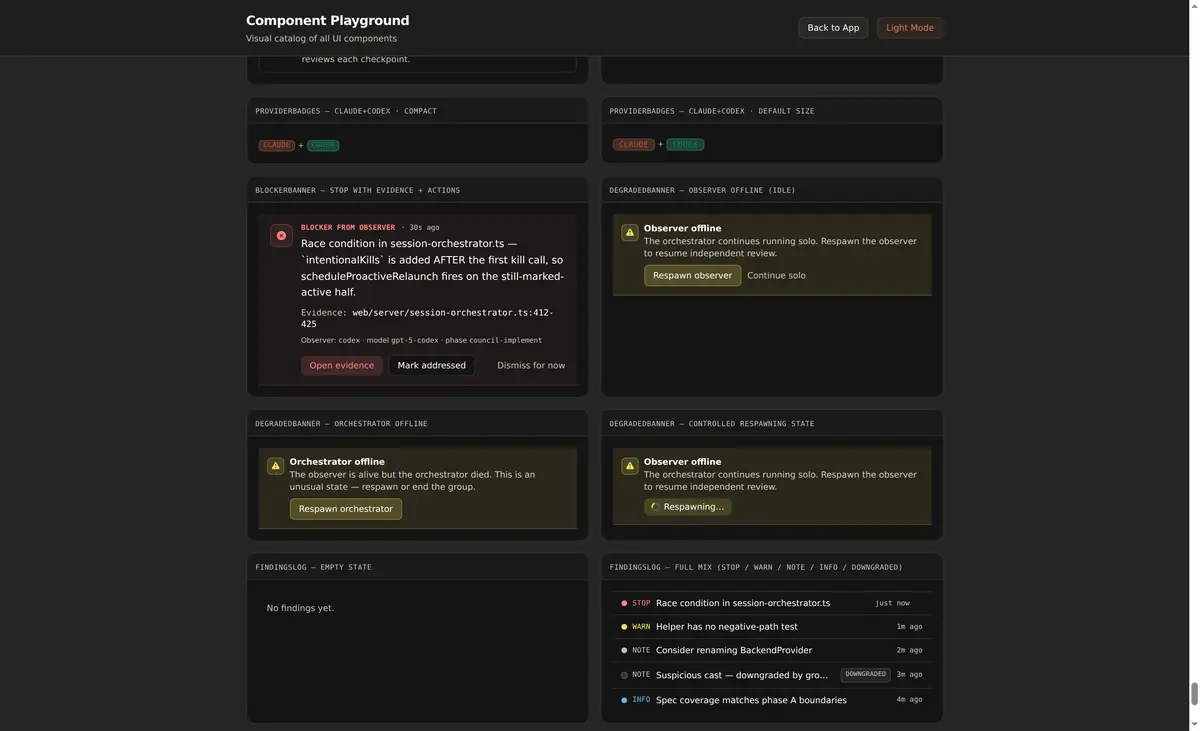
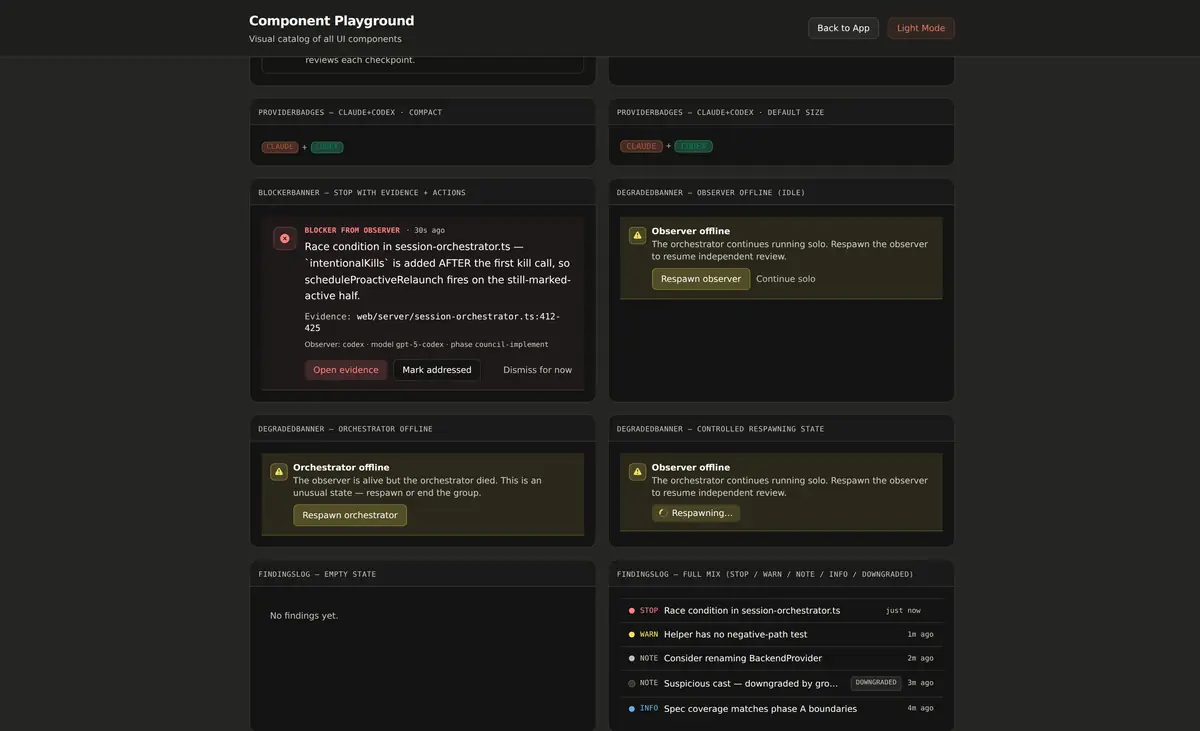
feat(landing): replace phone mockup with a real-screenshot carousel
- Hero: the fake-chat phone mockup and the single hero screenshot are
  replaced by a 6-slide carousel of real product screenshots (vanilla
  JS, no deps): 5 s autoplay, pause on hover/focus/hidden tab, play/
  pause button, prev/next + dots, swipe, arrow keys, no autoplay under
  prefers-reduced-motion, ARIA carousel pattern ("N из M" / "N of M",
  aria-live polite only once autoplay stops), slides after the first
  load lazily, fixed aspect-ratio so nothing shifts.
- New captures from the built-in Playground (mock data) and an
  isolated crop of the New Session model menu: models marked
  "Untested", usage-limit auto-resume banner, collapsed
  "Interrupted xN" markers, observer findings cards.
- All images WebP, 18-45 KB each; scrollbars cropped off Playground
  shots.
- Mobile: the header CTA no longer wraps/overflows at <=520px.

diff --git a/landing-legacy/site/index.html b/landing-legacy/site/index.html
@@ -155,6 +155,8 @@
     .nav-links { display: none; }
     .gh-badge span { display: none; }
   }
+  .nav-cta { white-space: nowrap; }
+  @media (max-width: 520px) { .nav-cta { display: none; } }
 
   /* Hero */
   .hero { padding: 80px 0 60px; position: relative; }
@@ -488,6 +490,26 @@
     .shot-frame { border-radius: 10px; }
   }
 
+  /* Screenshot carousel */
+  .carousel { position: relative; z-index: 1; max-width: 1100px; margin: 0 0 48px; }
+  .carousel:focus-visible { outline: 2px solid var(--amber); outline-offset: 6px; border-radius: 14px; }
+  .carousel-viewport { overflow: hidden; border: 1px solid var(--border-hi); border-radius: 14px; background: #060403; box-shadow: 0 0 0 1px rgba(0, 255, 110, 0.06) inset, 0 0 28px rgba(0, 255, 110, 0.14), 0 20px 60px -20px rgba(0, 0, 0, 0.9); touch-action: pan-y; }
+  .carousel-track { display: flex; transition: transform 0.5s ease; will-change: transform; }
+  .carousel-slide { flex: 0 0 100%; min-width: 0; margin: 0; }
+  .carousel-slide .carousel-img { aspect-ratio: 1400 / 853; background: #1e1e1e; }
+  .carousel-slide img { display: block; width: 100%; height: 100%; object-fit: contain; }
+  .carousel-caption { margin: 0; padding: 12px 16px; min-height: 4.4em; font-size: 13px; color: var(--text-dim); text-align: center; line-height: 1.6; }
+  .carousel-controls { display: flex; align-items: center; justify-content: center; gap: 12px; margin-top: 8px; flex-wrap: wrap; }
+  .carousel-btn { background: var(--surface); border: 1px solid var(--border-hi); color: var(--amber); width: 36px; height: 36px; border-radius: 999px; cursor: pointer; font-family: inherit; font-size: 16px; line-height: 1; display: inline-flex; align-items: center; justify-content: center; transition: background 0.2s, border-color 0.2s; }
+  .carousel-btn:hover, .carousel-btn:focus-visible { background: var(--surface-hi); border-color: var(--amber); outline: none; }
+  .carousel-dots { display: flex; gap: 6px; }
+  .carousel-dot { width: 24px; height: 24px; padding: 0; border: none; background: none; cursor: pointer; display: inline-flex; align-items: center; justify-content: center; }
+  .carousel-dot::before { content: ''; width: 8px; height: 8px; border-radius: 50%; background: var(--text-dim); transition: background 0.2s, box-shadow 0.2s; }
+  .carousel-dot[aria-current="true"]::before { background: var(--amber); box-shadow: 0 0 8px var(--amber); }
+  .carousel-dot:focus-visible { outline: 2px solid var(--amber); border-radius: 50%; }
+  @media (max-width: 880px) { .carousel { margin-bottom: 36px; } .carousel-viewport { border-radius: 10px; } }
+  @media (prefers-reduced-motion: reduce) { .carousel-track { transition: none; } }
+
   /* FAQ */
   .faq-list { max-width: 800px; }
   .faq-item { border-bottom: 1px solid var(--border); padding: 24px 0; }
@@ -623,7 +645,24 @@
       <h1>Сложные ИИ-системы.<br><span class="accent">С телефона.</span> Без VPN.</h1>
       <p class="hero-sub">Веб-интерфейс для официальных Claude Code и Codex: ваши агенты продолжают работу после лимита, проверяют друг друга и не теряют ответы при рестарте. Программируйте, советуйтесь, создавайте — по-русски, прямо из браузера телефона. Полностью бесплатный благотворительный проект с открытым кодом под MIT. <a href="#why" style="color:var(--amber);text-decoration:none;white-space:nowrap;">Зачем, если есть Claude Code? →</a></p>
 
-      <figure class="shot hero-shot"><div class="shot-frame"><img src="/img/aura-hero.webp" width="1400" height="853" alt="Экран новой сессии Aura Companion: слева список сессий проекта, в центре поле задачи, переключатель Claude Code / Codex и тумблер Council Mode" fetchpriority="high" decoding="async"></div><figcaption>Так выглядит Aura: сессии слева, выбор Claude Code или Codex и включение Council Mode — в браузере, в том числе с телефона</figcaption></figure>
+      <div class="carousel" id="shots" role="region" aria-roledescription="carousel" aria-label="Скриншоты Aura Companion" tabindex="0" data-pause="Остановить автопрокрутку" data-play="Включить автопрокрутку">
+        <div class="carousel-viewport">
+          <div class="carousel-track" aria-live="off">
+            <figure class="carousel-slide" role="group" aria-roledescription="slide" aria-label="1 из 6"><div class="carousel-img"><img src="/img/aura-hero.webp" width="1400" height="853" alt="Экран новой сессии Aura Companion: список сессий, поле задачи, переключатель Claude Code / Codex и тумблер Council Mode" fetchpriority="high" decoding="async"></div><figcaption class="carousel-caption">Новая сессия: выбор Claude Code или Codex и включение Council Mode — в браузере, в том числе с телефона</figcaption></figure>
+            <figure class="carousel-slide" role="group" aria-roledescription="slide" aria-label="2 из 6" aria-hidden="true"><div class="carousel-img"><img data-src="/img/shot-fresh.webp" width="1400" height="853" alt="Слева список моделей, где непроверенные модели (Opus 5.5, Fable 5.1 и другие) помечены Untested; справа баннер «Лимит до 08:02 — автопродолжение в 08:04», сообщение «Лимит сброшен — продолжай с того места, где остановился» и свёрнутая строка «Interrupted ×4»" decoding="async"></div><figcaption class="carousel-caption">Свежее: непроверенные модели помечены «Untested»; лимит → автопродолжение по таймеру; серия перезапусков свёрнута в одну строку (демо-данные)</figcaption></figure>
+            <figure class="carousel-slide" role="group" aria-roledescription="slide" aria-label="3 из 6" aria-hidden="true"><div class="carousel-img"><img data-src="/img/shot-findings.webp" width="1400" height="853" alt="Лента наблюдателя: проба связи на русском, затем находки карточками — STOP, WARN и INFO с уверенностью и ссылкой на файл и строки" decoding="async"></div><figcaption class="carousel-caption">Находки наблюдателя приходят карточками: уровень, уверенность, файл и строки (демо-данные)</figcaption></figure>
+            <figure class="carousel-slide" role="group" aria-roledescription="slide" aria-label="4 из 6" aria-hidden="true"><div class="carousel-img"><img data-src="/img/council-overview.webp" width="1400" height="853" alt="Council Mode: слева чат основного агента, справа панель наблюдателя с находками NOTE и INFO от второй модели" decoding="async"></div><figcaption class="carousel-caption">Council Mode: справа — вторая модель, которая проверяет каждый шаг</figcaption></figure>
+            <figure class="carousel-slide" role="group" aria-roledescription="slide" aria-label="5 из 6" aria-hidden="true"><div class="carousel-img"><img data-src="/img/shot-permissions.webp" width="1400" height="853" alt="Запросы разрешений: команда Bash и правки файлов показаны диффом, с кнопками «разрешить», «на сессию», «всегда» и «запретить»" decoding="async"></div><figcaption class="carousel-caption">Каждое действие агента под контролем: разрешить один раз, на сессию или всегда; правки видны диффом до применения (демо-данные)</figcaption></figure>
+            <figure class="carousel-slide" role="group" aria-roledescription="slide" aria-label="6 из 6" aria-hidden="true"><div class="carousel-img"><img data-src="/img/council-anatomy.webp" width="1400" height="853" alt="Компоненты Council Mode: STOP-баннер наблюдателя с доказательством, баннеры «наблюдатель офлайн» и журнал находок STOP / WARN / NOTE / INFO" decoding="async"></div><figcaption class="carousel-caption">STOP-баннер с доказательством, состояния наблюдателя и журнал находок (демо-данные)</figcaption></figure>
+          </div>
+        </div>
+        <div class="carousel-controls">
+          <button type="button" class="carousel-btn" data-dir="-1" aria-label="Предыдущий слайд">&#8592;</button>
+          <div class="carousel-dots" role="group" aria-label="Выбор слайда"><button type="button" class="carousel-dot" data-i="0" aria-label="Слайд 1 из 6" aria-current="true"></button><button type="button" class="carousel-dot" data-i="1" aria-label="Слайд 2 из 6"></button><button type="button" class="carousel-dot" data-i="2" aria-label="Слайд 3 из 6"></button><button type="button" class="carousel-dot" data-i="3" aria-label="Слайд 4 из 6"></button><button type="button" class="carousel-dot" data-i="4" aria-label="Слайд 5 из 6"></button><button type="button" class="carousel-dot" data-i="5" aria-label="Слайд 6 из 6"></button></div>
+          <button type="button" class="carousel-btn" data-dir="1" aria-label="Следующий слайд">&#8594;</button>
+          <button type="button" class="carousel-btn carousel-toggle" aria-label="Остановить автопрокрутку">&#10074;&#10074;</button>
+        </div>
+      </div>
 
       <div class="paths" id="paths">
         <a href="#cases" class="path">
@@ -644,26 +683,6 @@
           <p>Код по MIT-лицензии — забирайте и ставьте сами. Или дайте ссылку Claude — он развернёт всё за вас.</p>
           <div class="path-cta">Открыть на GitHub</div>
         </a>
-      </div>
-
-      <div class="hero-visual">
-        <div class="phone">
-          <div class="phone-notch"></div>
-          <div class="phone-screen">
-            <div class="chat-msg user">
-              <div class="label">Вы</div>
-              Сделай мне систему учёта расходов, чтобы я могла фотографировать чеки и она сама всё считала
-            </div>
-            <div class="chat-msg ai">
-              <div class="label">Aura</div>
-              Поняла. Создаю мини-приложение «Семейный бюджет». Готовлю распознавание чеков, категории и месячный отчёт. 2 минуты.
-            </div>
-            <div class="chat-msg user">
-              <div class="label">Вы</div>
-              Ещё чтобы напоминал мужу про продукты по средам
-            </div>
-          </div>
-        </div>
       </div>
     </div>
   </section>
@@ -1317,6 +1336,58 @@
         if (b) b.textContent = v;
       }).catch(function(){});
   } catch (e) {}
+})();
+</script>
+<script>
+(function(){
+  var root = document.getElementById('shots'); if (!root) return;
+  var track = root.querySelector('.carousel-track');
+  var slides = root.querySelectorAll('.carousel-slide');
+  var dots = root.querySelectorAll('.carousel-dot');
+  var toggle = root.querySelector('.carousel-toggle');
+  var n = slides.length, cur = 0, timer = null, DELAY = 5000;
+  var reduced = window.matchMedia && window.matchMedia('(prefers-reduced-motion: reduce)').matches;
+  var stopped = reduced, hovered = false, focused = false;
+  function load(i){ var img = slides[(i + n) % n].querySelector('img[data-src]'); if (img) { img.src = img.getAttribute('data-src'); img.removeAttribute('data-src'); } }
+  function show(i){
+    cur = (i + n) % n;
+    track.style.transform = 'translateX(' + (-100 * cur) + '%)';
+    for (var k = 0; k < n; k++) {
+      if (k === cur) { slides[k].removeAttribute('aria-hidden'); dots[k].setAttribute('aria-current', 'true'); }
+      else { slides[k].setAttribute('aria-hidden', 'true'); dots[k].removeAttribute('aria-current'); }
+    }
+    load(cur); load(cur + 1);
+  }
+  function running(){ return !stopped && !hovered && !focused && !document.hidden; }
+  function sync(){
+    clearInterval(timer); timer = null;
+    if (running()) timer = setInterval(function(){ show(cur + 1); }, DELAY);
+    track.setAttribute('aria-live', stopped ? 'polite' : 'off');
+    toggle.setAttribute('aria-label', root.getAttribute(stopped ? 'data-play' : 'data-pause'));
+    toggle.innerHTML = stopped ? '&#9654;' : '&#10074;&#10074;';
+  }
+  function user(i){ stopped = true; show(i); sync(); }
+  root.querySelectorAll('[data-dir]').forEach(function(b){ b.addEventListener('click', function(){ user(cur + Number(b.getAttribute('data-dir'))); }); });
+  dots.forEach(function(d){ d.addEventListener('click', function(){ user(Number(d.getAttribute('data-i'))); }); });
+  toggle.addEventListener('click', function(){ stopped = !stopped; sync(); });
+  root.addEventListener('keydown', function(e){
+    if (e.key === 'ArrowLeft') { e.preventDefault(); user(cur - 1); }
+    else if (e.key === 'ArrowRight') { e.preventDefault(); user(cur + 1); }
+  });
+  root.addEventListener('mouseenter', function(){ hovered = true; sync(); });
+  root.addEventListener('mouseleave', function(){ hovered = false; sync(); });
+  root.addEventListener('focusin', function(){ focused = true; sync(); });
+  root.addEventListener('focusout', function(e){ if (!root.contains(e.relatedTarget)) { focused = false; sync(); } });
+  document.addEventListener('visibilitychange', sync);
+  var x0 = null, y0 = null;
+  root.addEventListener('touchstart', function(e){ x0 = e.touches[0].clientX; y0 = e.touches[0].clientY; }, {passive: true});
+  root.addEventListener('touchend', function(e){
+    if (x0 === null) return;
+    var dx = e.changedTouches[0].clientX - x0, dy = e.changedTouches[0].clientY - y0; x0 = null;
+    if (Math.abs(dx) > 40 && Math.abs(dx) > Math.abs(dy)) user(cur + (dx < 0 ? 1 : -1));
+  }, {passive: true});
+  window.addEventListener('load', function(){ load(1); });
+  show(0); sync();
 })();
 </script>
 </body>

diff --git a/landing-legacy/site/en/index.html b/landing-legacy/site/en/index.html
@@ -155,6 +155,8 @@
     .nav-links { display: none; }
     .gh-badge span { display: none; }
   }
+  .nav-cta { white-space: nowrap; }
+  @media (max-width: 520px) { .nav-cta { display: none; } }
 
   /* Hero */
   .hero { padding: 80px 0 60px; position: relative; }
@@ -488,6 +490,26 @@
     .shot-frame { border-radius: 10px; }
   }
 
+  /* Screenshot carousel */
+  .carousel { position: relative; z-index: 1; max-width: 1100px; margin: 0 0 48px; }
+  .carousel:focus-visible { outline: 2px solid var(--amber); outline-offset: 6px; border-radius: 14px; }
+  .carousel-viewport { overflow: hidden; border: 1px solid var(--border-hi); border-radius: 14px; background: #060403; box-shadow: 0 0 0 1px rgba(0, 255, 110, 0.06) inset, 0 0 28px rgba(0, 255, 110, 0.14), 0 20px 60px -20px rgba(0, 0, 0, 0.9); touch-action: pan-y; }
+  .carousel-track { display: flex; transition: transform 0.5s ease; will-change: transform; }
+  .carousel-slide { flex: 0 0 100%; min-width: 0; margin: 0; }
+  .carousel-slide .carousel-img { aspect-ratio: 1400 / 853; background: #1e1e1e; }
+  .carousel-slide img { display: block; width: 100%; height: 100%; object-fit: contain; }
+  .carousel-caption { margin: 0; padding: 12px 16px; min-height: 4.4em; font-size: 13px; color: var(--text-dim); text-align: center; line-height: 1.6; }
+  .carousel-controls { display: flex; align-items: center; justify-content: center; gap: 12px; margin-top: 8px; flex-wrap: wrap; }
+  .carousel-btn { background: var(--surface); border: 1px solid var(--border-hi); color: var(--amber); width: 36px; height: 36px; border-radius: 999px; cursor: pointer; font-family: inherit; font-size: 16px; line-height: 1; display: inline-flex; align-items: center; justify-content: center; transition: background 0.2s, border-color 0.2s; }
+  .carousel-btn:hover, .carousel-btn:focus-visible { background: var(--surface-hi); border-color: var(--amber); outline: none; }
+  .carousel-dots { display: flex; gap: 6px; }
+  .carousel-dot { width: 24px; height: 24px; padding: 0; border: none; background: none; cursor: pointer; display: inline-flex; align-items: center; justify-content: center; }
+  .carousel-dot::before { content: ''; width: 8px; height: 8px; border-radius: 50%; background: var(--text-dim); transition: background 0.2s, box-shadow 0.2s; }
+  .carousel-dot[aria-current="true"]::before { background: var(--amber); box-shadow: 0 0 8px var(--amber); }
+  .carousel-dot:focus-visible { outline: 2px solid var(--amber); border-radius: 50%; }
+  @media (max-width: 880px) { .carousel { margin-bottom: 36px; } .carousel-viewport { border-radius: 10px; } }
+  @media (prefers-reduced-motion: reduce) { .carousel-track { transition: none; } }
+
   /* FAQ */
   .faq-list { max-width: 800px; }
   .faq-item { border-bottom: 1px solid var(--border); padding: 24px 0; }
@@ -623,7 +645,24 @@
       <h1>Claude Code &amp; Codex.<br><span class="accent">From your phone.</span> No babysitting.</h1>
       <p class="hero-sub">A web UI for the official Claude Code and Codex CLIs: your agents keep working after a usage limit, review each other, and don't lose replies when the server restarts. Run several projects in one window, from any browser — including your phone. Free, open source under MIT. Also works from Russia, Belarus, Kazakhstan and the rest of the CIS without a VPN. <a href="#why" style="color:var(--amber);text-decoration:none;white-space:nowrap;">Why not just use Claude Code? →</a></p>
 
-      <figure class="shot hero-shot"><div class="shot-frame"><img src="/img/aura-hero.webp" width="1400" height="853" alt="Aura Companion new-session screen: project sessions in the sidebar, a task box, a Claude Code / Codex switch and the Council Mode toggle" fetchpriority="high" decoding="async"></div><figcaption>This is Aura: sessions on the left, Claude Code or Codex, and a Council Mode switch — in the browser, phone included</figcaption></figure>
+      <div class="carousel" id="shots" role="region" aria-roledescription="carousel" aria-label="Aura Companion screenshots" tabindex="0" data-pause="Pause auto-rotation" data-play="Start auto-rotation">
+        <div class="carousel-viewport">
+          <div class="carousel-track" aria-live="off">
+            <figure class="carousel-slide" role="group" aria-roledescription="slide" aria-label="1 of 6"><div class="carousel-img"><img src="/img/aura-hero.webp" width="1400" height="853" alt="Aura Companion new-session screen: session list, task box, Claude Code / Codex switch and the Council Mode toggle" fetchpriority="high" decoding="async"></div><figcaption class="carousel-caption">New session: pick Claude Code or Codex and switch on Council Mode — in the browser, phone included</figcaption></figure>
+            <figure class="carousel-slide" role="group" aria-roledescription="slide" aria-label="2 of 6" aria-hidden="true"><div class="carousel-img"><img data-src="/img/shot-fresh.webp" width="1400" height="853" alt="Left: the model list, with not-yet-verified models (Opus 5.5, Fable 5.1 and others) marked Untested; right: a banner &quot;limit until 08:02 — auto-resume at 08:04&quot;, the automatic &quot;limit reset, continue where you left off&quot; message, and a collapsed &quot;Interrupted ×4&quot; row" decoding="async"></div><figcaption class="carousel-caption">New: unverified models are marked "Untested"; a usage limit triggers a timed auto-resume; a run of restarts collapses into one row (demo data)</figcaption></figure>
+            <figure class="carousel-slide" role="group" aria-roledescription="slide" aria-label="3 of 6" aria-hidden="true"><div class="carousel-img"><img data-src="/img/shot-findings.webp" width="1400" height="853" alt="Observer feed: a liveness probe, then findings as cards — STOP, WARN and INFO with confidence and a file and line reference" decoding="async"></div><figcaption class="carousel-caption">The observer's findings arrive as cards: severity, confidence, file and lines (demo data)</figcaption></figure>
+            <figure class="carousel-slide" role="group" aria-roledescription="slide" aria-label="4 of 6" aria-hidden="true"><div class="carousel-img"><img data-src="/img/council-overview.webp" width="1400" height="853" alt="Council Mode: the main agent chat on the left, the observer panel on the right with NOTE and INFO findings from a second model" decoding="async"></div><figcaption class="carousel-caption">Council Mode: on the right, a second model that checks every step</figcaption></figure>
+            <figure class="carousel-slide" role="group" aria-roledescription="slide" aria-label="5 of 6" aria-hidden="true"><div class="carousel-img"><img data-src="/img/shot-permissions.webp" width="1400" height="853" alt="Permission requests: a Bash command and file edits shown as diffs, with Allow, Allow for session, Allow always and Deny buttons" decoding="async"></div><figcaption class="carousel-caption">Every agent action stays under your control: allow once, for the session or always; edits are shown as a diff first (demo data)</figcaption></figure>
+            <figure class="carousel-slide" role="group" aria-roledescription="slide" aria-label="6 of 6" aria-hidden="true"><div class="carousel-img"><img data-src="/img/council-anatomy.webp" width="1400" height="853" alt="Council Mode components: an observer STOP banner with evidence, &quot;observer offline&quot; banners and a STOP / WARN / NOTE / INFO findings log" decoding="async"></div><figcaption class="carousel-caption">A STOP banner with evidence, observer states and the findings log (demo data)</figcaption></figure>
+          </div>
+        </div>
+        <div class="carousel-controls">
+          <button type="button" class="carousel-btn" data-dir="-1" aria-label="Previous slide">&#8592;</button>
+          <div class="carousel-dots" role="group" aria-label="Choose slide"><button type="button" class="carousel-dot" data-i="0" aria-label="Slide 1 of 6" aria-current="true"></button><button type="button" class="carousel-dot" data-i="1" aria-label="Slide 2 of 6"></button><button type="button" class="carousel-dot" data-i="2" aria-label="Slide 3 of 6"></button><button type="button" class="carousel-dot" data-i="3" aria-label="Slide 4 of 6"></button><button type="button" class="carousel-dot" data-i="4" aria-label="Slide 5 of 6"></button><button type="button" class="carousel-dot" data-i="5" aria-label="Slide 6 of 6"></button></div>
+          <button type="button" class="carousel-btn" data-dir="1" aria-label="Next slide">&#8594;</button>
+          <button type="button" class="carousel-btn carousel-toggle" aria-label="Pause auto-rotation">&#10074;&#10074;</button>
+        </div>
+      </div>
 
       <div class="paths" id="paths">
         <a href="#cases" class="path">
@@ -644,26 +683,6 @@
           <p>MIT-licensed — take it and host it yourself. Or hand the repo link to Claude and let it set everything up for you.</p>
           <div class="path-cta">Open on GitHub</div>
         </a>
-      </div>
-
-      <div class="hero-visual">
-        <div class="phone">
-          <div class="phone-notch"></div>
-          <div class="phone-screen">
-            <div class="chat-msg user">
-              <div class="label">You</div>
-              Build me an expense tracker — I want to snap photos of receipts and have it add everything up
-            </div>
-            <div class="chat-msg ai">
-              <div class="label">Aura</div>
-              Got it. Creating a "Family Budget" mini-app: receipt recognition, categories and a monthly report. Two minutes.
-            </div>
-            <div class="chat-msg user">
-              <div class="label">You</div>
-              Also remind my husband about groceries every Wednesday
-            </div>
-          </div>
-        </div>
       </div>
     </div>
   </section>
@@ -1247,6 +1266,58 @@
         if (b) b.textContent = v;
       }).catch(function(){});
   } catch (e) {}
+})();
+</script>
+<script>
+(function(){
+  var root = document.getElementById('shots'); if (!root) return;
+  var track = root.querySelector('.carousel-track');
+  var slides = root.querySelectorAll('.carousel-slide');
+  var dots = root.querySelectorAll('.carousel-dot');
+  var toggle = root.querySelector('.carousel-toggle');
+  var n = slides.length, cur = 0, timer = null, DELAY = 5000;
+  var reduced = window.matchMedia && window.matchMedia('(prefers-reduced-motion: reduce)').matches;
+  var stopped = reduced, hovered = false, focused = false;
+  function load(i){ var img = slides[(i + n) % n].querySelector('img[data-src]'); if (img) { img.src = img.getAttribute('data-src'); img.removeAttribute('data-src'); } }
+  function show(i){
+    cur = (i + n) % n;
+    track.style.transform = 'translateX(' + (-100 * cur) + '%)';
+    for (var k = 0; k < n; k++) {
+      if (k === cur) { slides[k].removeAttribute('aria-hidden'); dots[k].setAttribute('aria-current', 'true'); }
+      else { slides[k].setAttribute('aria-hidden', 'true'); dots[k].removeAttribute('aria-current'); }
+    }
+    load(cur); load(cur + 1);
+  }
+  function running(){ return !stopped && !hovered && !focused && !document.hidden; }
+  function sync(){
+    clearInterval(timer); timer = null;
+    if (running()) timer = setInterval(function(){ show(cur + 1); }, DELAY);
+    track.setAttribute('aria-live', stopped ? 'polite' : 'off');
+    toggle.setAttribute('aria-label', root.getAttribute(stopped ? 'data-play' : 'data-pause'));
+    toggle.innerHTML = stopped ? '&#9654;' : '&#10074;&#10074;';
+  }
+  function user(i){ stopped = true; show(i); sync(); }
+  root.querySelectorAll('[data-dir]').forEach(function(b){ b.addEventListener('click', function(){ user(cur + Number(b.getAttribute('data-dir'))); }); });
+  dots.forEach(function(d){ d.addEventListener('click', function(){ user(Number(d.getAttribute('data-i'))); }); });
+  toggle.addEventListener('click', function(){ stopped = !stopped; sync(); });
+  root.addEventListener('keydown', function(e){
+    if (e.key === 'ArrowLeft') { e.preventDefault(); user(cur - 1); }
+    else if (e.key === 'ArrowRight') { e.preventDefault(); user(cur + 1); }
+  });
+  root.addEventListener('mouseenter', function(){ hovered = true; sync(); });
+  root.addEventListener('mouseleave', function(){ hovered = false; sync(); });
+  root.addEventListener('focusin', function(){ focused = true; sync(); });
+  root.addEventListener('focusout', function(e){ if (!root.contains(e.relatedTarget)) { focused = false; sync(); } });
+  document.addEventListener('visibilitychange', sync);
+  var x0 = null, y0 = null;
+  root.addEventListener('touchstart', function(e){ x0 = e.touches[0].clientX; y0 = e.touches[0].clientY; }, {passive: true});
+  root.addEventListener('touchend', function(e){
+    if (x0 === null) return;
+    var dx = e.changedTouches[0].clientX - x0, dy = e.changedTouches[0].clientY - y0; x0 = null;
+    if (Math.abs(dx) > 40 && Math.abs(dx) > Math.abs(dy)) user(cur + (dx < 0 ? 1 : -1));
+  }, {passive: true});
+  window.addEventListener('load', function(){ load(1); });
+  show(0); sync();
 })();
 </script>
 </body>
